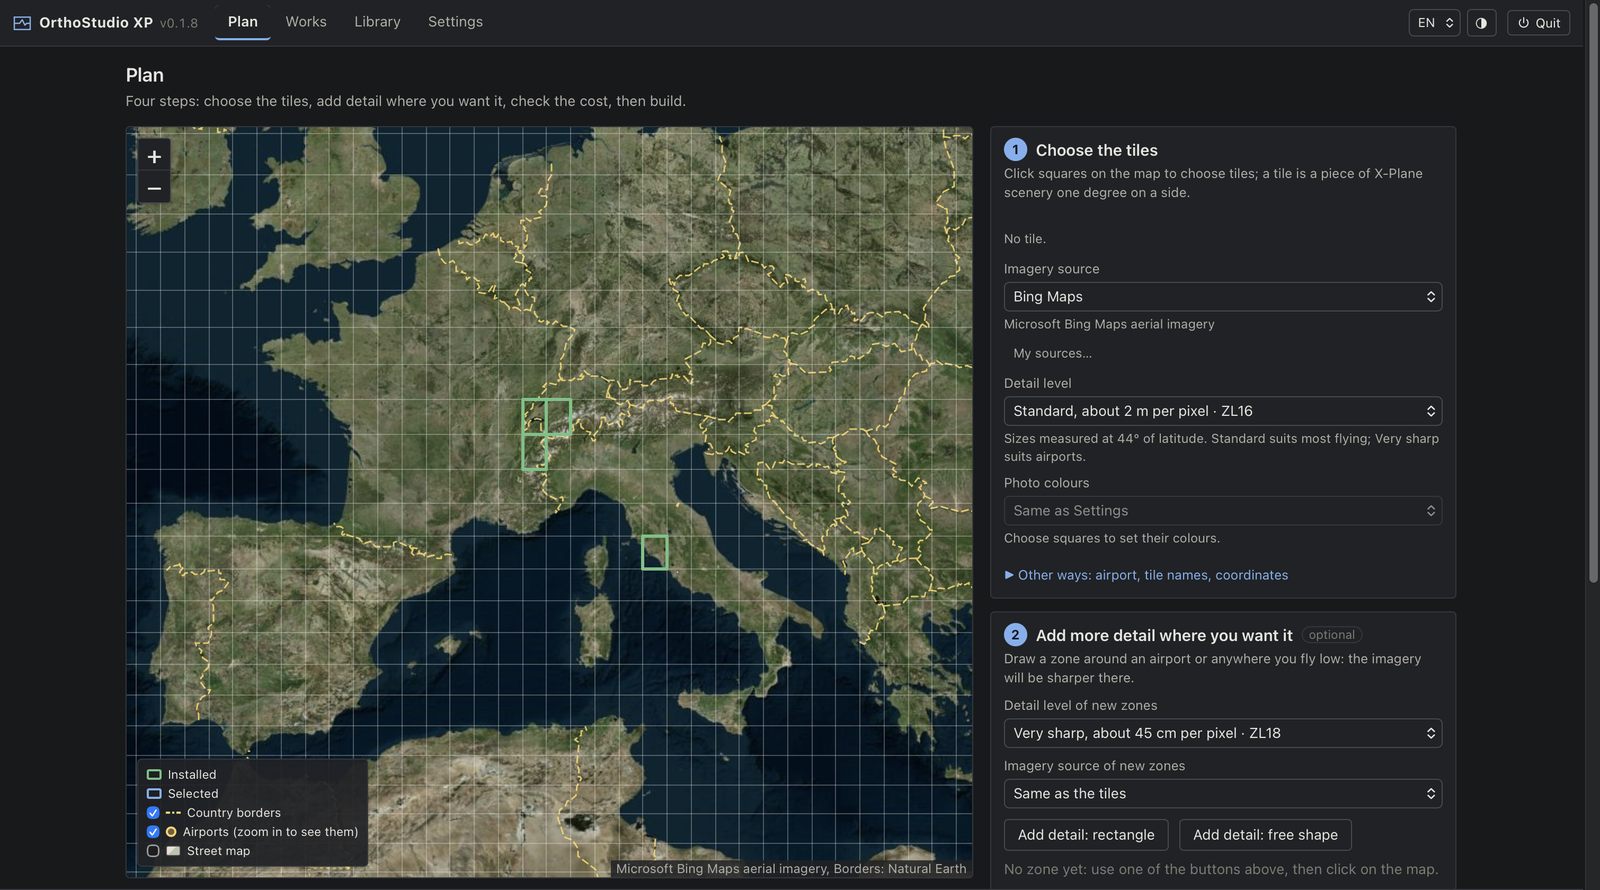
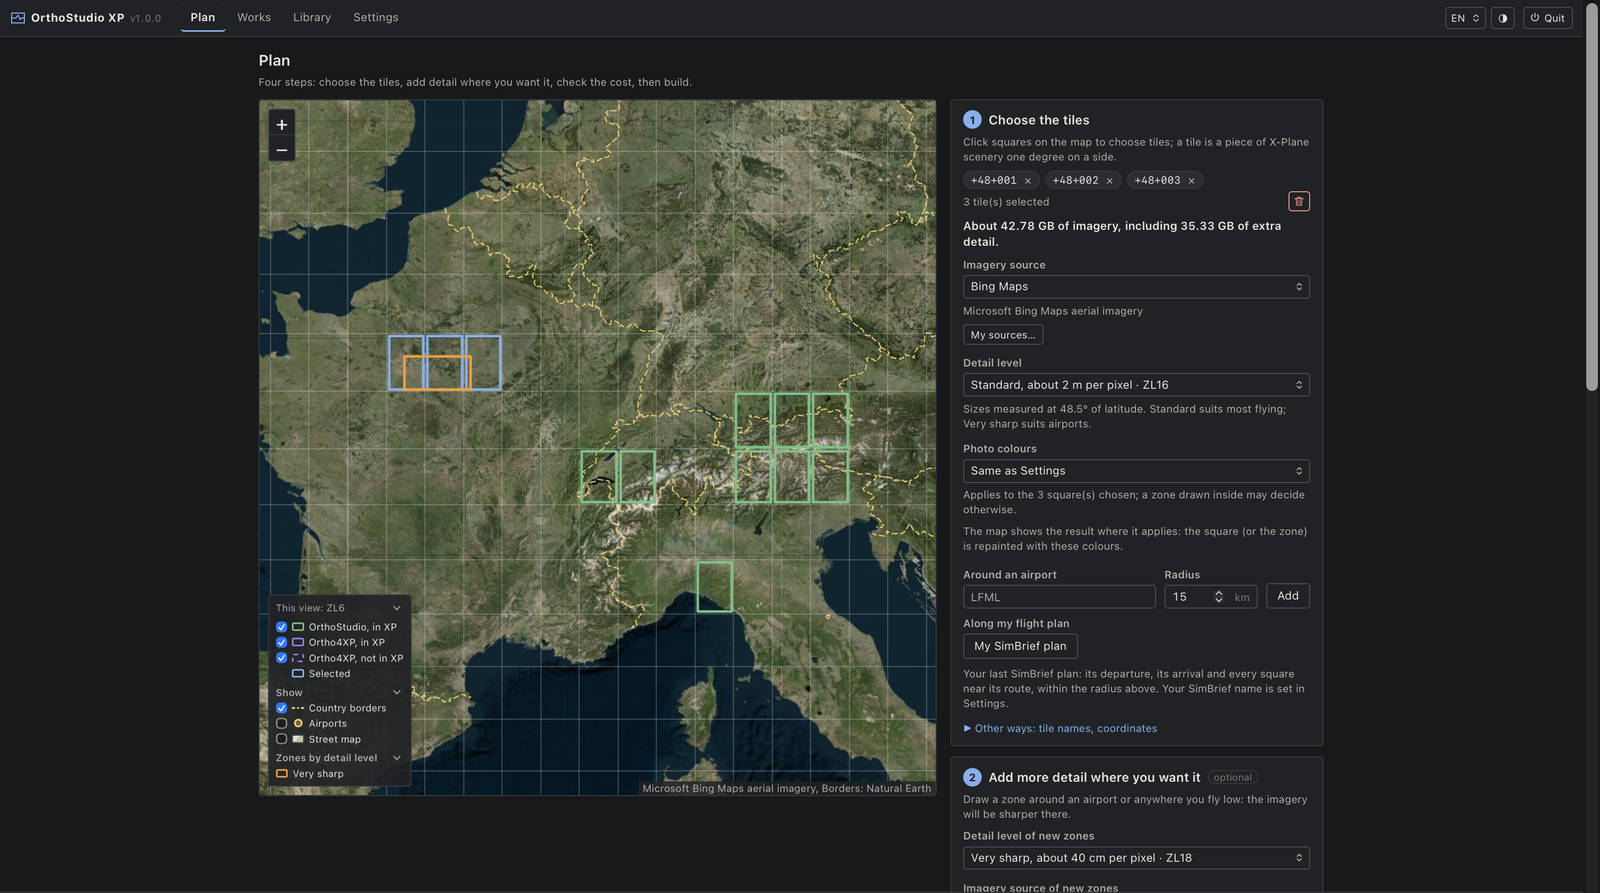
The README's pictures are those of 1.0, the page alone, and their captions say what they show

diff --git a/README.md b/README.md
@@ -11,7 +11,7 @@ macOS and Windows, with their installers. The installers for Intel Macs and for 
 checked automatically at every release, and downloaded far less often than the others; Linux is
 experimental.
 
-![The Plan page: the map of Europe, four tiles already built showing in green over the western Alps and the Tuscan coast, and beside it the first two of the four steps](docs/images/plan.png)
+![The Plan page: the map of Europe, the tiles already in X-Plane outlined in green over the Alps, three tiles chosen in blue near Paris with a sharper zone drawn over them in orange, and beside it the first of the four steps](docs/images/plan.png)
 
 ## What you get
 
@@ -60,11 +60,11 @@ How it works, what it keeps on disk and how to clean it:
 
 | What it will cost | Works |
 |---|---|
-| ![Step 3 of the Plan: what the build will download, compute and take on the disk, tile by tile](docs/images/cost.png) | ![A finished build of four tiles: every step of every tile, then the final report](docs/images/works.png) |
+| ![Step 3 of the Plan: what the build will download, compute and take on the disk, tile by tile](docs/images/cost.png) | ![A finished build of six tiles: every step of every tile, then the final report](docs/images/works.png) |
 
 | Library | Settings |
 |---|---|
-| ![The Library: five tiles in X-Plane, their size, and the disk space used](docs/images/library.png) | ![Settings: three presets and questions in plain words](docs/images/settings.png) |
+| ![The Library: tiles built by OrthoStudio XP and others imported from Ortho4XP, whether X-Plane shows them, their size, and the disk space used](docs/images/library.png) | ![Settings: three presets and questions in plain words](docs/images/settings.png) |
 
 ## Build times, measured
 
